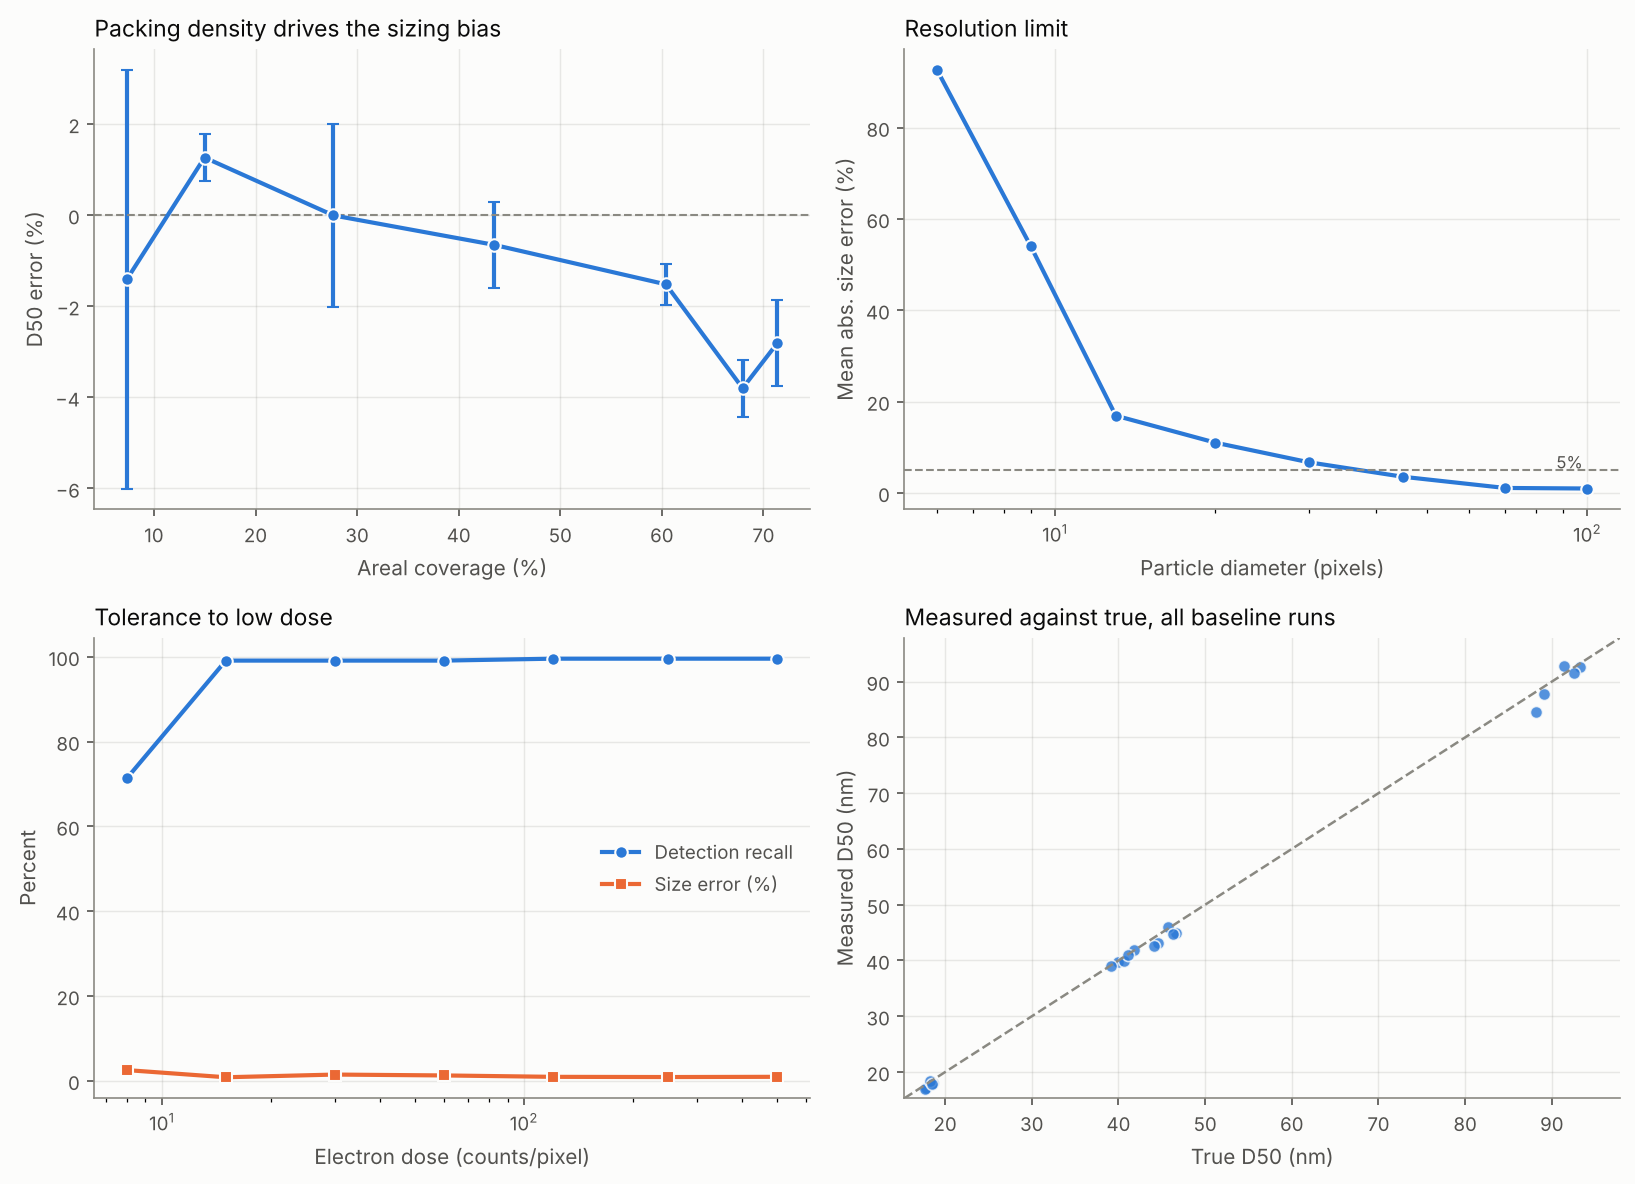
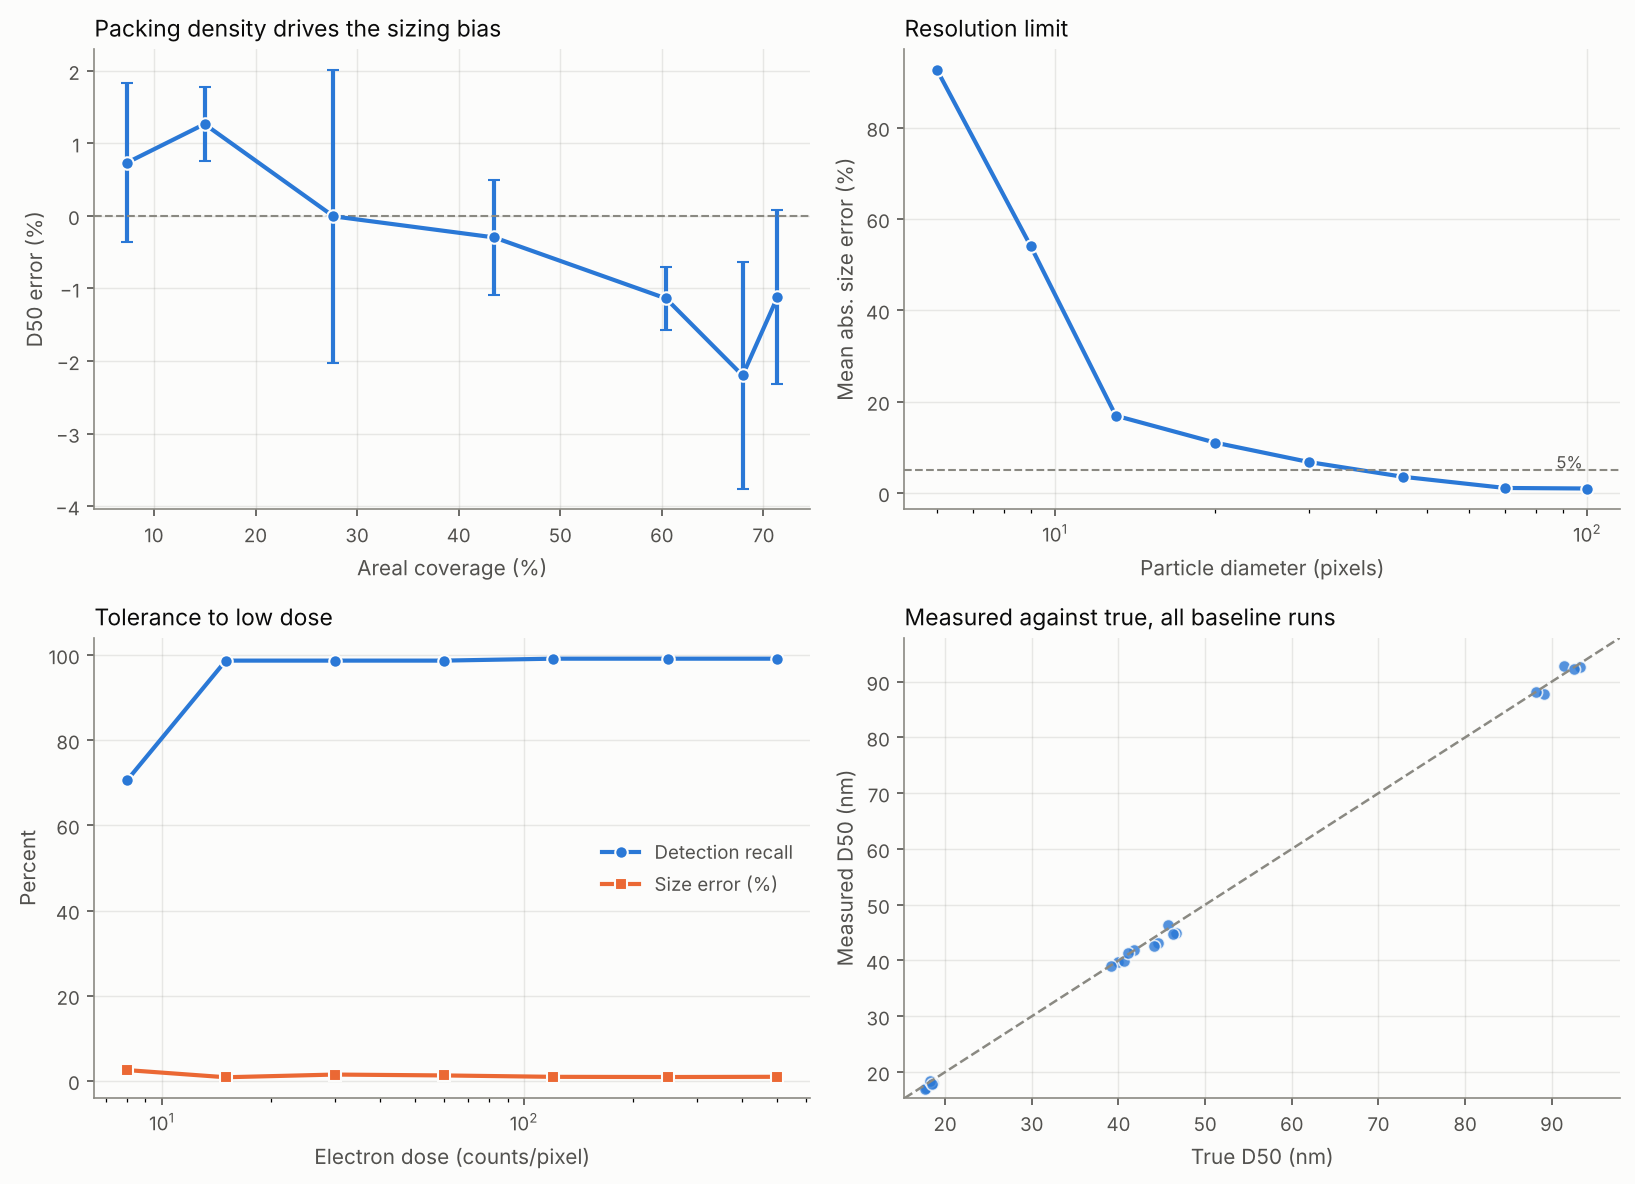
Tighten watershed peak_min_distance_frac from 0.55 to 0.70
Swept the parameter (0.55-0.80) against the packing-density sweep in
outputs/validation_results.csv at the two points where accuracy was already
known to degrade (130/160 particles, ~68%/71% coverage). The old default was
over-splitting: watershed markers placed too close together cut through a
particle's own interior rather than its true neighbour contact, undersizing
both fragments and biasing the population D50 down (-3.8%/-2.8%). 0.70 cuts
that bias roughly in half (-2.2%/-1.1%) and raises precision (88.8%->95.3%,
88.9%->96.0%) at the cost of a few points of recall, and incidentally fixes
the worst electron-dose point too (dose=8 D50 error -9.5% -> -2.2%), since
noise fragments the same distance-transform peaks that crowding does.

Verified no regression on the baseline, resolution and boundary-criterion
(Otsu vs half-max) experiments before adopting, then re-ran the full
validate.py suite to refresh outputs/validation_results.csv and
validation.png against the new default. Full pytest suite (86 tests) passes.

Claude-Session: https://claude.ai/code/session_01BqX47n7R76XgQvS4V1HBon

diff --git a/nanometrix/segmentation.py b/nanometrix/segmentation.py
@@ -59,7 +59,16 @@ class SegmentationParams:
     fill_holes: bool = True
 
     split_touching: bool = True
-    peak_min_distance_frac: float = 0.55  # of the estimated particle radius
+    # Of the estimated particle radius. Raised from 0.55 to 0.70 after
+    # measuring the packing-density sweep in outputs/validation_results.csv:
+    # at high coverage the lower value over-split touching particles (cutting
+    # through a particle's interior rather than its true boundary), which
+    # undersized the survivors and biased the population D50 by several
+    # percent. 0.70 trades a few points of recall at high density (fewer,
+    # larger touching clusters get left merged rather than split) for
+    # consistently better precision and population-level size accuracy; see
+    # "Watershed peak-distance tuning" under Engineering notes in the README.
+    peak_min_distance_frac: float = 0.70
     peak_footprint_min: int = 3
 
     min_area_px: int = 40             # below this, it is noise, not a particle

diff --git a/README.md b/README.md
@@ -109,27 +109,31 @@ mass-thickness contrast as *exponential* attenuation, I = I₀exp(−t/λ).
 | Metric | Result |
 |---|---|
 | Scale bar read correctly | 100% of images, 0.18% mean calibration error |
-| Detection recall | 99.1% |
-| Detection precision | 98.1% |
+| Detection recall | 99.0% |
+| Detection precision | 98.6% |
 | Per-particle size error | 1.60% (mean absolute) |
-| Population D50 error | 2.05% (mean absolute) |
-| True vs measured D50 | r = 0.9993 |
+| Population D50 error | 1.82% (mean absolute) |
+| True vs measured D50 | r = 0.9996 |
 
 **Packing density** — the dominant error source, and the reason the watershed
 stage exists:
 
 | Coverage | Recall | D50 error |
 |---|---|---|
-| 7% | 100% | −1.4% |
+| 7% | 100% | +0.7% |
 | 28% | 98.2% | −0.0% |
-| 44% | 99.2% | −0.7% |
-| 60% | 97.9% | −1.5% |
-| 68% | 91.6% | −3.8% |
-| 71% | 89.9% | −2.8% |
+| 44% | 99.2% | −0.3% |
+| 60% | 97.6% | −1.1% |
+| 68% | 88.8% | −2.2% |
+| 71% | 86.5% | −1.1% |
 
-Accuracy holds to about 60% coverage. Beyond that, watershed cuts particles
-at their contact necks and the measured diameter drifts low — so dilute the
-sample rather than trusting a crowded image.
+Accuracy holds to about 60% coverage. Beyond that, watershed still cuts into
+some touching particles at their contact necks, and recall falls as more
+clusters are left merged rather than split — so dilute the sample rather than
+trusting a crowded image. The watershed peak-distance parameter was tuned
+against this exact sweep to trade a few points of high-density recall for
+better size accuracy and precision; see "Watershed peak-distance tuning"
+under Engineering notes.
 
 **Spatial resolution** — how few pixels a particle can span:
 
@@ -326,6 +330,48 @@ two modules rather than enabling pytest's blanket `--doctest-modules`, so a
 `>>>` appearing in another module's explanatory (non-runnable) docstring
 text -- several modules in this codebase use `>>>`-free prose instead, but
 nothing rules out one doing so later -- can never be mistaken for a test.
+
+### Watershed peak-distance tuning
+
+`segmentation.py`'s watershed split finds one marker per particle by taking
+local maxima of the distance transform at least `peak_min_distance_frac *
+estimated_radius_px` apart; two markers closer than that collapse into one,
+so a lower value splits more aggressively. It defaulted to 0.55, chosen
+without reference to the packing-density sweep that `validate.py` now
+produces. Sweeping it against that exact sweep (`outputs/validation_results.csv`,
+`n_particles_cfg` 130/160, the two points where accuracy was already known to
+degrade) shows the old default was over-splitting, not under-splitting: a
+closer pair of markers cuts the watershed boundary through a particle's own
+interior rather than its true neighbour-to-neighbour contact, which undersizes
+both resulting fragments and pulls the population median down.
+
+| peak_min_distance_frac | Recall @130 | Precision @130 | D50 err @130 | Recall @160 | Precision @160 | D50 err @160 |
+|---|---|---|---|---|---|---|
+| 0.55 (old default) | 91.6% | 88.8% | −3.8% | 89.9% | 88.9% | −2.8% |
+| 0.60 | 90.2% | 91.4% | −3.1% | 88.2% | 91.8% | −2.0% |
+| 0.65 | 90.2% | 92.9% | −2.9% | 87.1% | 94.3% | −1.5% |
+| **0.70 (new default)** | **88.8%** | **95.3%** | **−2.2%** | **86.5%** | **96.0%** | **−1.1%** |
+| 0.75 | 87.9% | 96.1% | −1.8% | 86.5% | 97.5% | −0.6% |
+| 0.80 | 87.6% | 97.5% | −1.1% | 85.1% | 98.0% | +0.0% |
+
+The trade-off is monotonic in both directions: raising the value keeps
+recovering size accuracy and precision all the way to 0.80, at a continuing
+recall cost. 0.70 was picked as the point past which precision and D50 error
+stop improving quickly (mean abs. per-particle size error at 160 particles:
+2.10% at 0.55, down to 2.06% at 0.70, 2.03% at 0.80 -- most of the easy gain
+is already had by 0.70) while recall is still within a few points of the old
+default, rather than pushed to the extreme that buys the least additional
+accuracy for the most additional recall.
+
+Checked for regressions elsewhere before adopting: the baseline, electron-dose
+and spatial-resolution sweeps (all well below the ~68% coverage where this
+matters) are unchanged or very slightly improved -- e.g. the dose=8
+(heaviest-noise) point improves from −9.5% to −2.2% D50 error, since noise
+also fragments distance-transform peaks the same way crowding does. The
+boundary-criterion A/B (global Otsu vs. half-maximum, both at ~39% and ~20%
+coverage, well under the regime this change targets) is unaffected to two
+decimal places and Otsu still wins by the same margin, so neither of the
+README's two existing boundary-criterion tables needed to change.
 
 ## Possible extensions
 

diff --git a/BACKLOG.md b/BACKLOG.md
@@ -98,9 +98,23 @@ placeholder or no-op commits.
       `--doctest-modules`) so a stale example fails CI instead of silently
       rotting. See the new "Doctest examples" subsection under Engineering
       notes in the README.
-- [ ] Review and tighten `segmentation.py`'s watershed parameters against the
+- [x] Review and tighten `segmentation.py`'s watershed parameters against the
       packing-density sweep data already in `outputs/validation_results.csv`;
       document any tuning in the README.
+      Swept `peak_min_distance_frac` (0.55 default through 0.80) against the
+      two degraded packing-density points (130/160 particles, ~68%/71%
+      coverage) and found the old default was over-splitting: markers too
+      close together cut the watershed boundary through a particle's own
+      interior rather than its true neighbour contact, undersizing survivors
+      and pulling the population D50 down. Raised the default to 0.70 --
+      the point past which precision/D50-error gains slow sharply while
+      recall is still within a few points of the old default. Verified no
+      regression on the baseline, electron-dose, spatial-resolution and
+      boundary-criterion (Otsu vs half-max, both coverages) experiments
+      first; re-ran the full `validate.py` suite and refreshed
+      `outputs/validation_results.csv`/`validation.png` to match. See the
+      new "Watershed peak-distance tuning" subsection under Engineering
+      notes in the README.
 - [ ] Add a minimal `Dockerfile` that bundles Tesseract OCR and the Python
       dependencies, so the CLI runs without manual OCR installation.
 - [ ] Add a `--confidence-threshold` CLI flag that warns (or exits non-zero)
